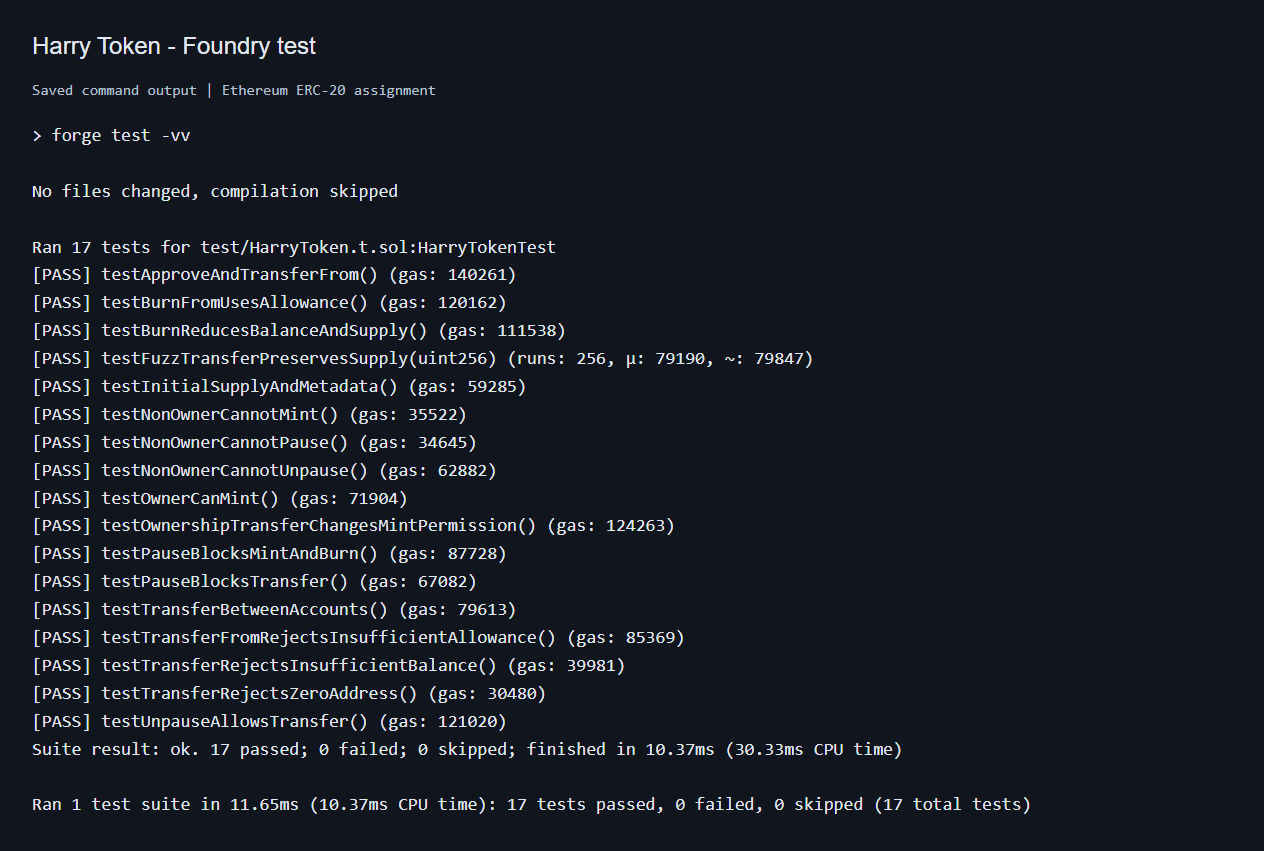
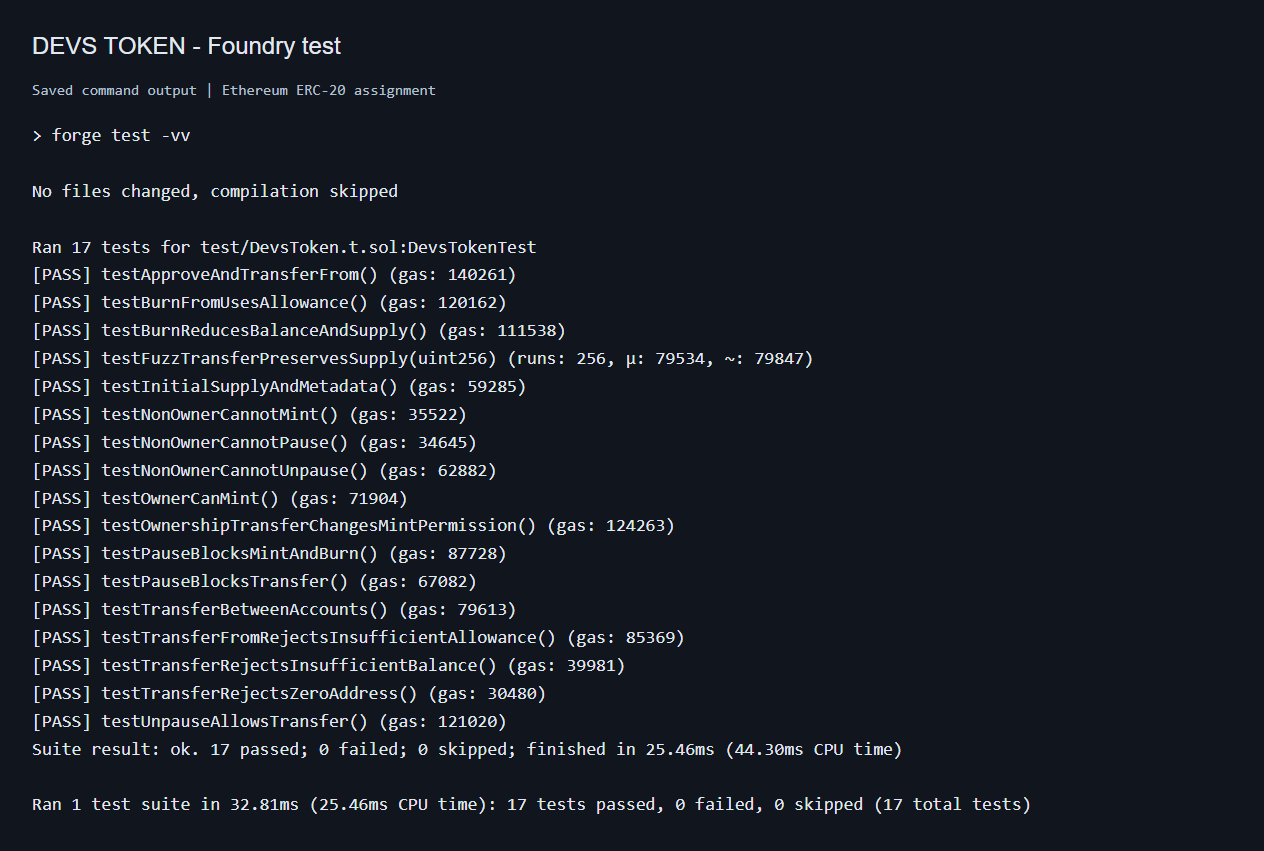
Customize token as DEVS TOKEN with DEVS symbol

diff --git a/evidence/test.html b/evidence/test.html
@@ -1,12 +1,12 @@
-<!doctype html><html><meta charset="utf-8"><title>Harry Token - test</title><style>body{margin:32px;background:#10151e;color:#e2e8f0;font:18px/1.55 monospace}h1{font:24px sans-serif}pre{white-space:pre-wrap}small{color:#b5c0d0}</style><h1>Harry Token - Foundry test</h1><small>Saved command output | Ethereum ERC-20 assignment</small><pre>&gt; forge test -vv
+<!doctype html><html><meta charset="utf-8"><title>DEVS TOKEN - test</title><style>body{margin:32px;background:#10151e;color:#e2e8f0;font:18px/1.55 monospace}h1{font:24px sans-serif}pre{white-space:pre-wrap}small{color:#b5c0d0}</style><h1>DEVS TOKEN - Foundry test</h1><small>Saved command output | Ethereum ERC-20 assignment</small><pre>&gt; forge test -vv
 
 No files changed, compilation skipped
 
-Ran 17 tests for test/HarryToken.t.sol:HarryTokenTest
+Ran 17 tests for test/DevsToken.t.sol:DevsTokenTest
 [PASS] testApproveAndTransferFrom() (gas: 140261)
 [PASS] testBurnFromUsesAllowance() (gas: 120162)
 [PASS] testBurnReducesBalanceAndSupply() (gas: 111538)
-[PASS] testFuzzTransferPreservesSupply(uint256) (runs: 256, μ: 79190, ~: 79847)
+[PASS] testFuzzTransferPreservesSupply(uint256) (runs: 256, μ: 79534, ~: 79847)
 [PASS] testInitialSupplyAndMetadata() (gas: 59285)
 [PASS] testNonOwnerCannotMint() (gas: 35522)
 [PASS] testNonOwnerCannotPause() (gas: 34645)
@@ -20,7 +20,7 @@ Ran 17 tests for test/HarryToken.t.sol:HarryTokenTest
 [PASS] testTransferRejectsInsufficientBalance() (gas: 39981)
 [PASS] testTransferRejectsZeroAddress() (gas: 30480)
 [PASS] testUnpauseAllowsTransfer() (gas: 121020)
-Suite result: ok. 17 passed; 0 failed; 0 skipped; finished in 10.37ms (30.33ms CPU time)
+Suite result: ok. 17 passed; 0 failed; 0 skipped; finished in 25.46ms (44.30ms CPU time)
 
-Ran 1 test suite in 11.65ms (10.37ms CPU time): 17 tests passed, 0 failed, 0 skipped (17 total tests)
+Ran 1 test suite in 32.81ms (25.46ms CPU time): 17 tests passed, 0 failed, 0 skipped (17 total tests)
 </pre></html>

diff --git a/evidence/build.html b/evidence/build.html
@@ -1,6 +1,6 @@
-<!doctype html><html><meta charset="utf-8"><title>Harry Token - build</title><style>body{margin:32px;background:#10151e;color:#e2e8f0;font:18px/1.55 monospace}h1{font:24px sans-serif}pre{white-space:pre-wrap}small{color:#b5c0d0}</style><h1>Harry Token - Foundry build</h1><small>Saved command output | Ethereum ERC-20 assignment</small><pre>&gt; forge build --force
+<!doctype html><html><meta charset="utf-8"><title>DEVS TOKEN - build</title><style>body{margin:32px;background:#10151e;color:#e2e8f0;font:18px/1.55 monospace}h1{font:24px sans-serif}pre{white-space:pre-wrap}small{color:#b5c0d0}</style><h1>DEVS TOKEN - Foundry build</h1><small>Saved command output | Ethereum ERC-20 assignment</small><pre>&gt; forge build --force
 
 Compiling 32 files with Solc 0.8.28
-Solc 0.8.28 finished in 1.16s
+Solc 0.8.28 finished in 1.43s
 Compiler run successful!
 </pre></html>

diff --git a/README.md b/README.md
@@ -1,11 +1,11 @@
-# Harry Token
+# DEVS TOKEN
 
 My fourth assignment: an ERC-20 token built with Solidity and Foundry.
 
 | Setting | Value |
 | --- | --- |
-| Name | Harry Token |
-| Symbol | HARRY |
+| Name | DEVS TOKEN |
+| Symbol | DEVS |
 | Initial supply | 1,000,000 tokens |
 | Decimals | 18 |
 | Network | Ethereum Sepolia |
@@ -16,9 +16,9 @@ The constructor takes the supply in whole tokens. `mint`, `transfer`, and `burn`
 
 ## Files
 
-- `src/HarryToken.sol` — token contract
-- `test/HarryToken.t.sol` — Foundry tests
-- `script/DeployHarryToken.s.sol` — deployment script
+- `src/DevsToken.sol` — token contract
+- `test/DevsToken.t.sol` — Foundry tests
+- `script/DeployDevsToken.s.sol` — deployment script
 - `evidence/` — build and test output, plus screenshots when captured
 
 ## Build and test
@@ -26,8 +26,8 @@ The constructor takes the supply in whole tokens. `mint`, `transfer`, and `burn`
 Install [Foundry](https://getfoundry.sh/), then:
 
 ```sh
-git clone --recurse-submodules https://github.com/Bookofharry/harry-token.git
-cd harry-token
+git clone --recurse-submodules https://github.com/Bookofharry/devs-token.git
+cd devs-token
 forge build
 forge test -vv
 ```
@@ -41,12 +41,12 @@ Tests cover the initial supply, metadata, transfers, minting permissions, pause/
 Set `SEPOLIA_RPC_URL` and `PRIVATE_KEY` locally. The deployer needs Sepolia test ETH.
 
 ```sh
-forge script script/DeployHarryToken.s.sol:DeployHarryToken --rpc-url sepolia --broadcast
+forge script script/DeployDevsToken.s.sol:DeployDevsToken --rpc-url sepolia --broadcast
 ```
 
-The script is restricted to Sepolia and local chain ID 31337. It creates Harry Token with the name, symbol, and initial supply shown above.
+The script is restricted to Sepolia and local chain ID 31337. It creates DEVS TOKEN with the name, symbol, and initial supply shown above.
 
-Foundry saves the transaction in `broadcast/DeployHarryToken.s.sol/11155111/run-latest.json`. Check the receipt before reporting a successful deployment. Do not commit private keys or `.env` files.
+Foundry saves the transaction in `broadcast/DeployDevsToken.s.sol/11155111/run-latest.json`. Check the receipt before reporting a successful deployment. Do not commit private keys or `.env` files.
 
 ## Assignment walkthroughs
 
